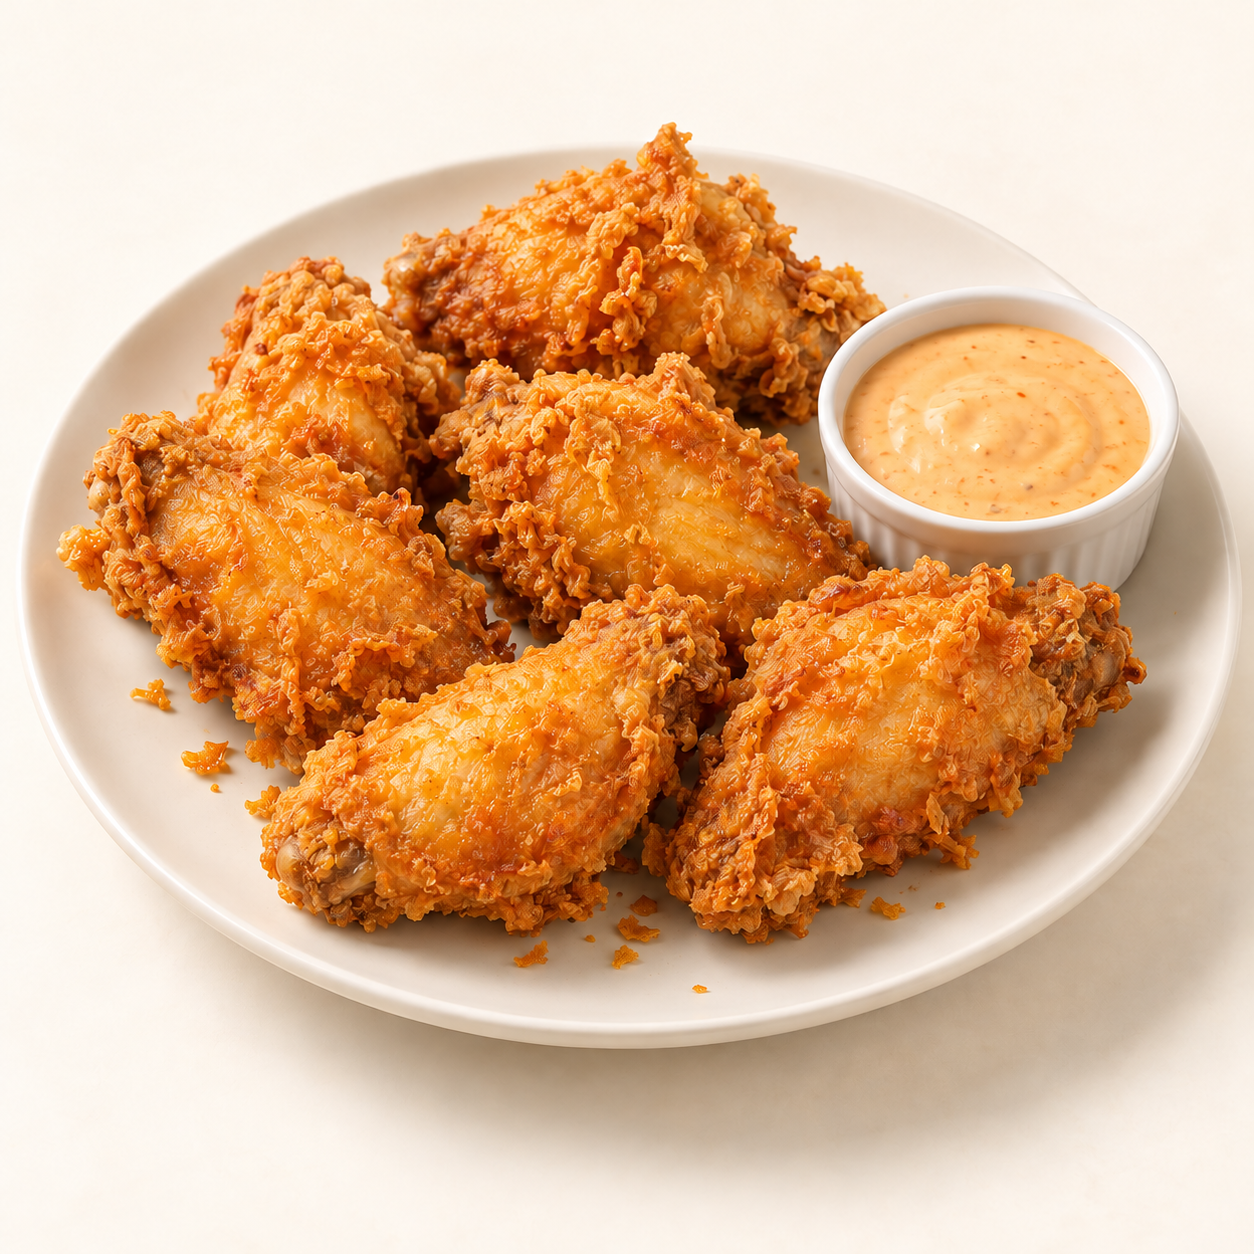
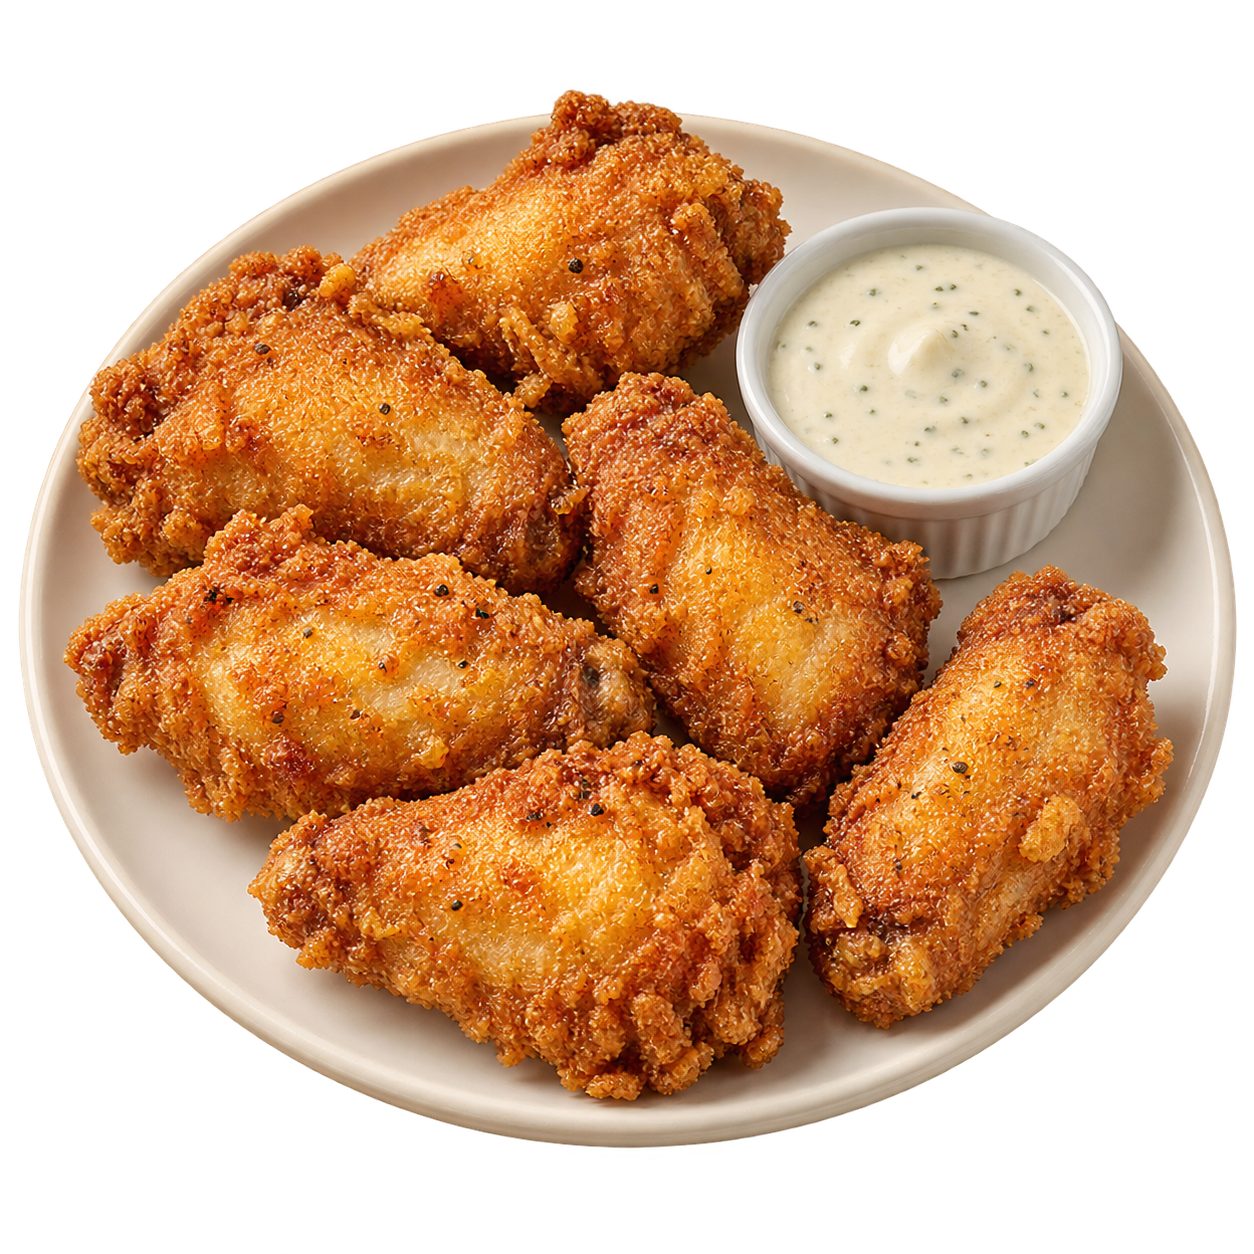
Add complete 15-item transparent food photo collection

diff --git a/images/MENU_IMAGES.md b/images/MENU_IMAGES.md
@@ -1,0 +1,23 @@
+# Bộ ảnh thực đơn nền trong suốt
+
+Tạo ngày 26/10/2026 bằng AI theo 15 món trong menu S Chicken. PNG RGBA 1254 × 1254px, đã kiểm tra có kênh alpha trong suốt. Không có chữ trên ảnh. Góc nhìn chếch từ trên xuống; ảnh món trên đĩa giữ đĩa, chỉ loại bỏ nền bên ngoài.
+
+| ID món | Tên món | Tệp PNG |
+| --- | --- | --- |
+| 1 | Gà giòn nguyên bản | [ga-gion-nguyen-ban.png](ga-gion-nguyen-ban.png) |
+| 2 | Gà sốt cay Hàn Quốc | [ga-sot-cay-han-quoc.png](ga-sot-cay-han-quoc.png) |
+| 3 | Burger gà đặc biệt | [burger-ga-dac-biet.png](burger-ga-dac-biet.png) |
+| 4 | Combo một mình vui | [combo-mot-minh-vui.png](combo-mot-minh-vui.png) |
+| 5 | Gà giòn đôi bạn | [ga-gion-doi-ban.png](ga-gion-doi-ban.png) |
+| 6 | Cánh gà giòn rụm | [canh-ga-gion-rum.png](canh-ga-gion-rum.png) |
+| 7 | Gà sốt mật ong | [ga-sot-mat-ong.png](ga-sot-mat-ong.png) |
+| 8 | Gà sốt tỏi | [ga-sot-toi.png](ga-sot-toi.png) |
+| 9 | Khoai tây chiên | [khoai-tay-chien.png](khoai-tay-chien.png) |
+| 10 | Burger gà phô mai | [burger-ga-pho-mai.png](burger-ga-pho-mai.png) |
+| 11 | Combo hội bạn | [combo-hoi-ban.png](combo-hoi-ban.png) |
+| 12 | Combo no nê | [combo-no-ne.png](combo-no-ne.png) |
+| 13 | Nước ngọt mát lạnh | [nuoc-ngot-mat-lanh.png](nuoc-ngot-mat-lanh.png) |
+| 14 | Trà chanh tươi | [tra-chanh-tuoi.png](tra-chanh-tuoi.png) |
+| 15 | Trà đào | [tra-dao.png](tra-dao.png) |
+
+Đây là bộ tài sản hình ảnh. Dùng tên tệp tương ứng khi thay ảnh trong HTML hoặc dữ liệu sản phẩm. Không đổi sang JPG nếu cần giữ nền trong suốt. Nguồn ảnh tạo bằng AI, không phải ảnh chụp suất ăn thực tế.

diff --git a/images/SOURCES.md b/images/SOURCES.md
@@ -27,3 +27,7 @@ Năm ảnh dưới được tạo bằng AI theo mô tả món, nền kem; dòng
 - `canh-ga-gion-rum.png`
 - `ga-sot-mat-ong.png`
 - `ga-sot-toi.png`
+
+## Bộ ảnh thực đơn tách nền ngày 26/10/2026
+
+15 PNG RGBA được tạo bằng AI theo mô tả menu, không có chữ và có nền trong suốt. Danh sách, ID món và tên tệp: [MENU_IMAGES.md](MENU_IMAGES.md); kết quả kiểm tra alpha: [menu-transparent.json](menu-transparent.json). Các tệp cùng tên trong bộ 5 ảnh cũ đã được thay bằng phiên bản tách nền.
